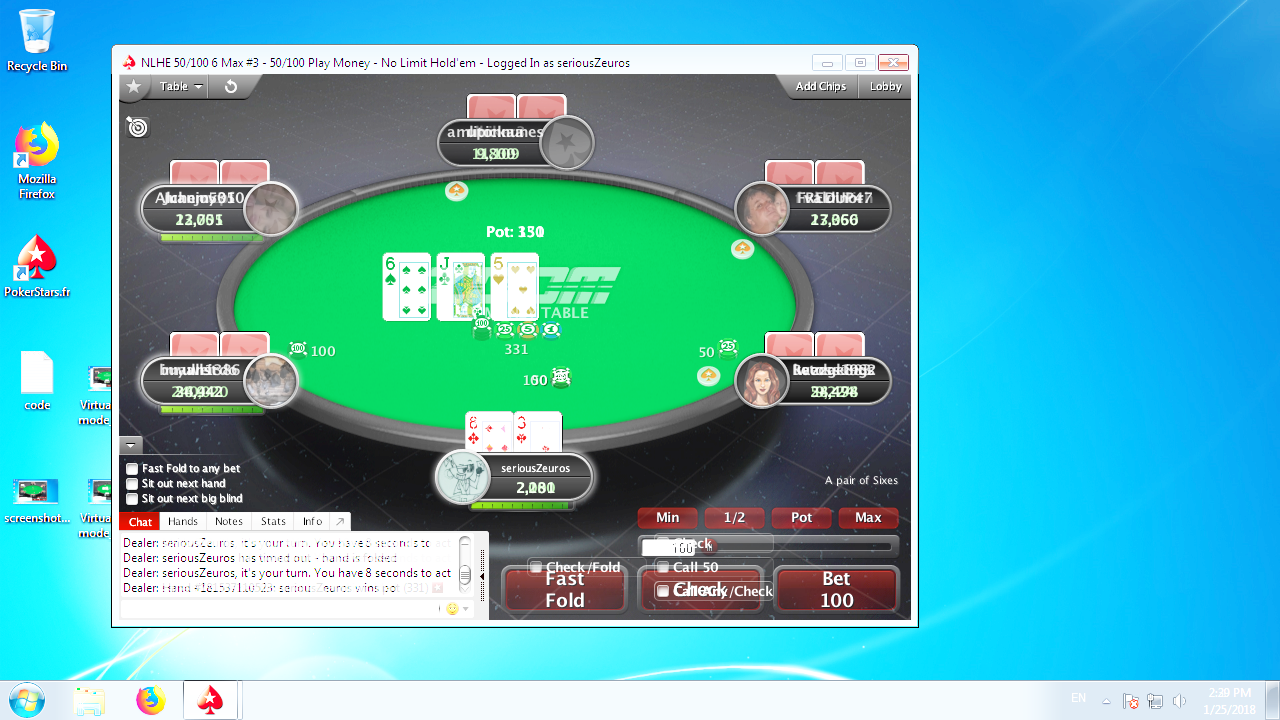
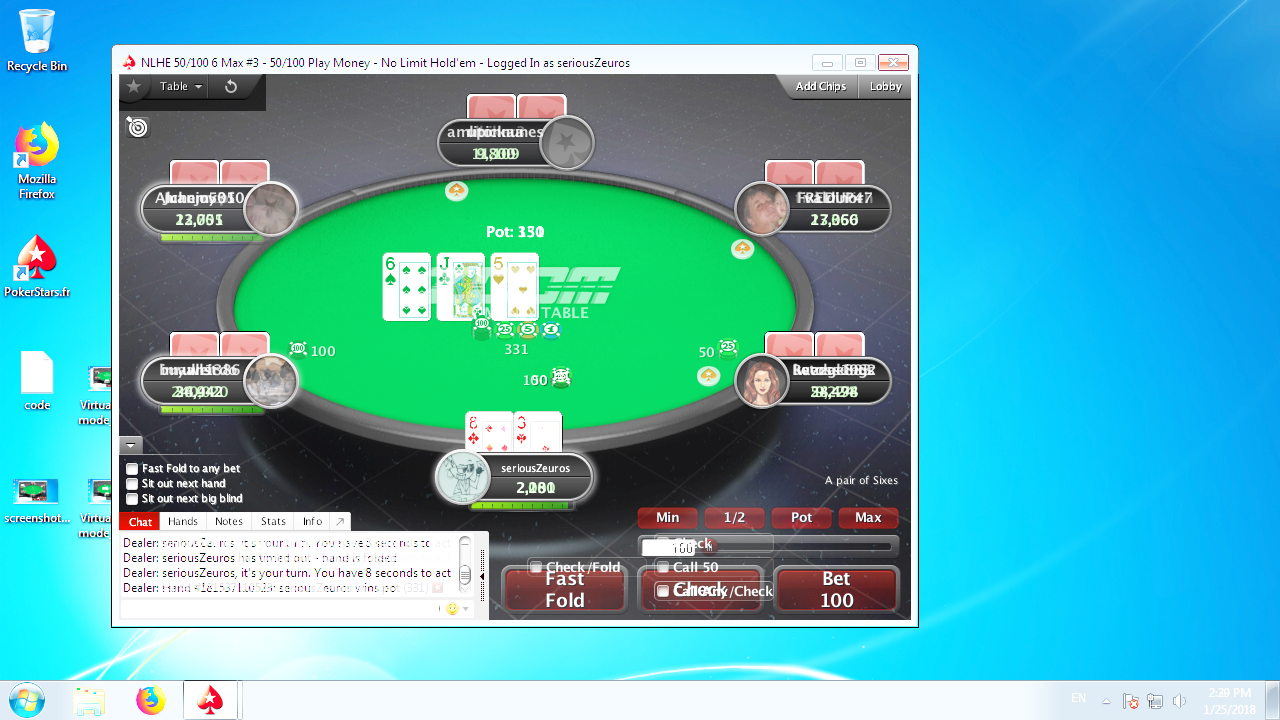
even with a bad image, allows to roughly see where things are

Changed region(s): [[0.0938, 0.0917, 0.2188, 0.1528]]

diff --git a/poker/tables/3-scrapingTester.py b/poker/tables/3-scrapingTester.py
@@ -39,14 +39,13 @@ class MyTableScreenBased(TableScreenBased):
                 points = points2
         except:
             pass
-        cv2.imshow(inspect.stack()[0][3], cv2.cvtColor(np.array(self.topLeftCorner), cv2.COLOR_RGB2BGR))
+
         if count == 1:
             self.tlc = points[0]
             print("debug : Top left corner found")
             return True
         else:
-
-            print("debug : Top left corner NOT found")
+            print("debug : Top left corner NOT found -> stop")
             return False
 
     def check_for_button(self):
@@ -248,6 +247,9 @@ class MyTableScreenBased(TableScreenBased):
         return True
 
     def check_fast_fold(self, p):
+        if not len(self.mycards):
+            print('NO card found')
+            return False
         if self.gameStage == "PreFlop":
             m = MonteCarlo()
             crd1, crd2 = m.get_two_short_notation(self.mycards)
@@ -459,8 +461,7 @@ class MyTableScreenBased(TableScreenBased):
                                         self.tlc[0] + fd['x2'], self.tlc[1] + fd['y2'])
             img = cv2.cvtColor(np.array(pil_image), cv2.COLOR_BGR2RGB)
             cv2.imshow(inspect.stack()[0][3], cv2.cvtColor(np.array(pil_image), cv2.COLOR_RGB2BGR))
-            cv2.waitKey()
-            cv2.destroyAllWindows()
+
             count, points, bestfit, minvalue = self.find_template_on_screen(self.coveredCardHolder, img, 0.01)
             print("debug : Player status: " + str(i) + ": " + str(count))
             if count > 0:
@@ -750,7 +751,6 @@ class ScrapingTester():
             t.check_for_imback : {},
             t.get_my_cards : {},
             t.get_table_cards : {},
-            t.get_dealer_position : {},
             t.check_fast_fold : {'p':p},
             t.check_for_button : {},
             t.get_round_number : {},
@@ -760,13 +760,14 @@ class ScrapingTester():
             t.get_other_player_pots : {},
             t.get_total_pot_value : {},
             t.get_round_pot_value : {},
-            t.check_for_checkbutton : {},
             t.get_other_player_status : {'p':p},
+            t.check_for_checkbutton : {},
             t.check_for_call : {},
             t.check_for_betbutton : {},
             t.check_for_allincall : {},
             t.get_current_call_value : {'p':p},
             t.get_current_bet_value : {'p':p},
+            t.get_dealer_position : {},
         }
 
         for f, parameters in testFunctions.items():
